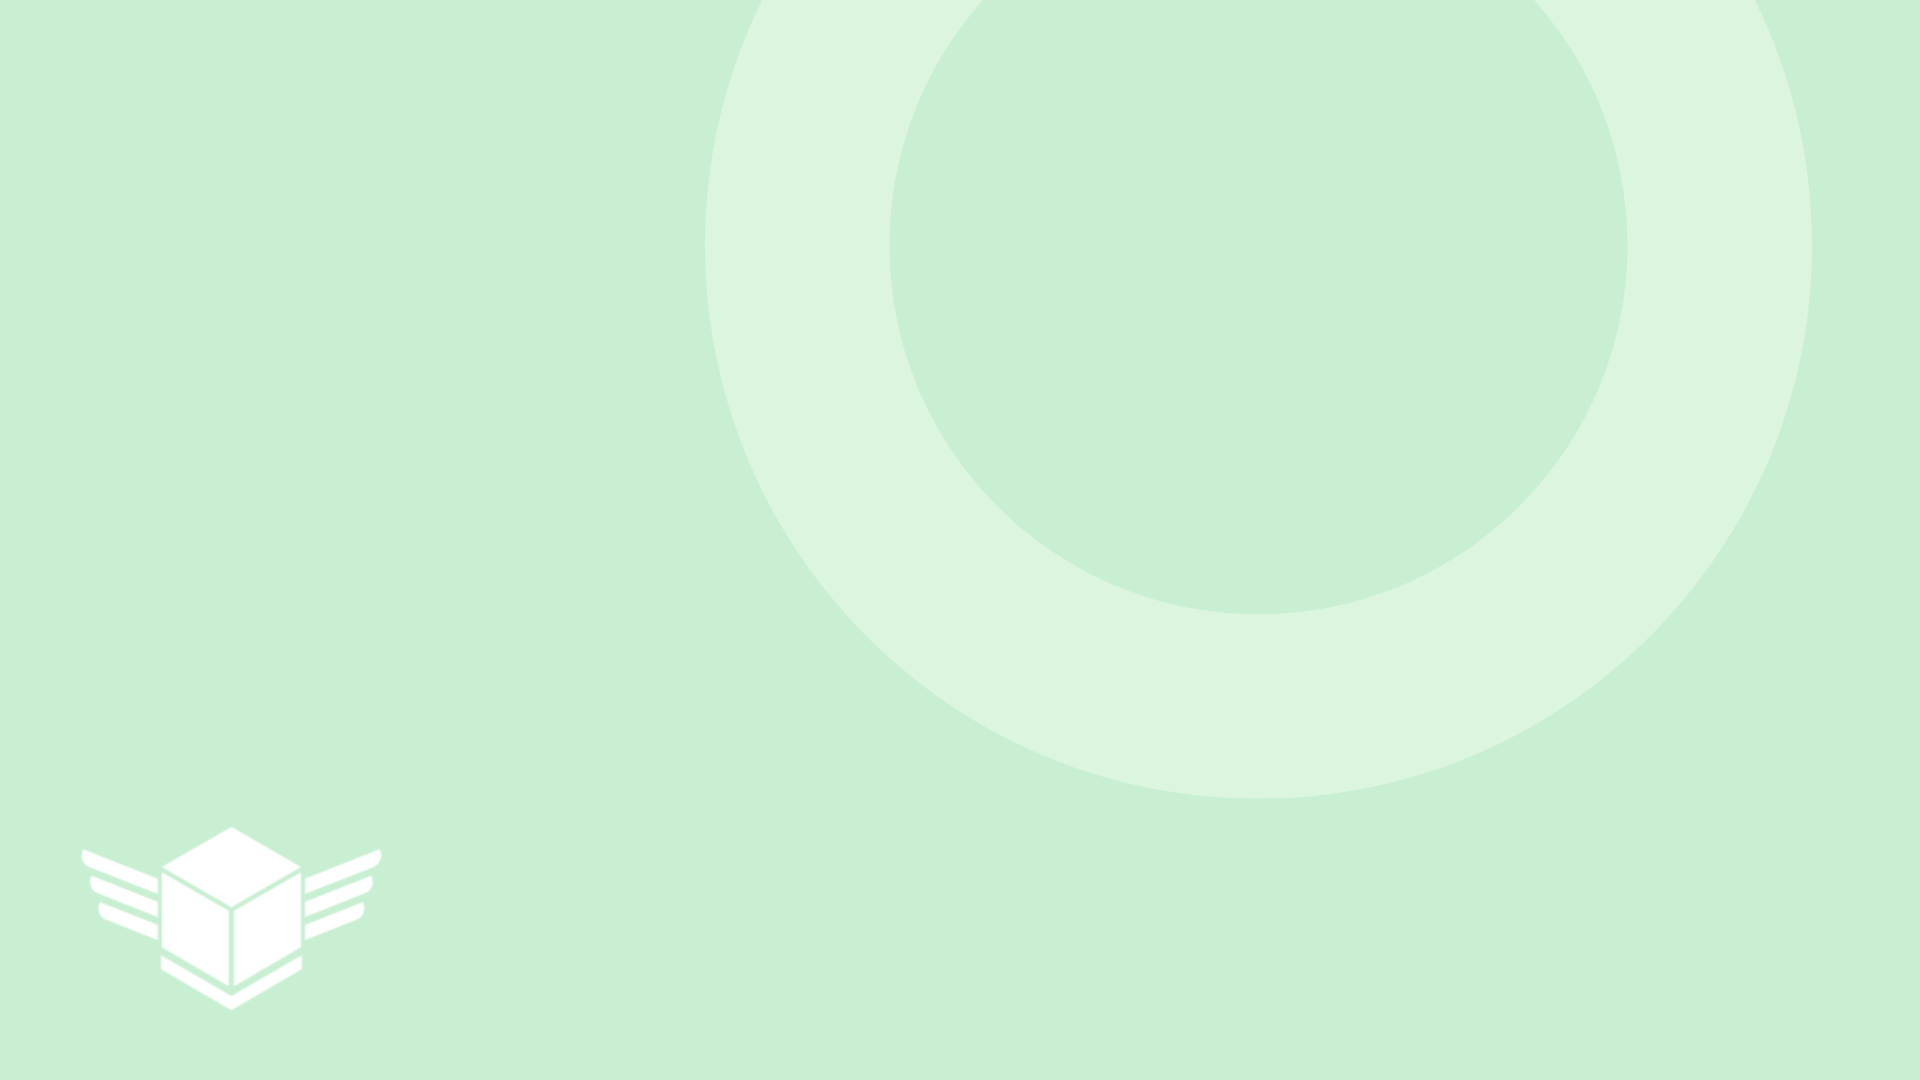
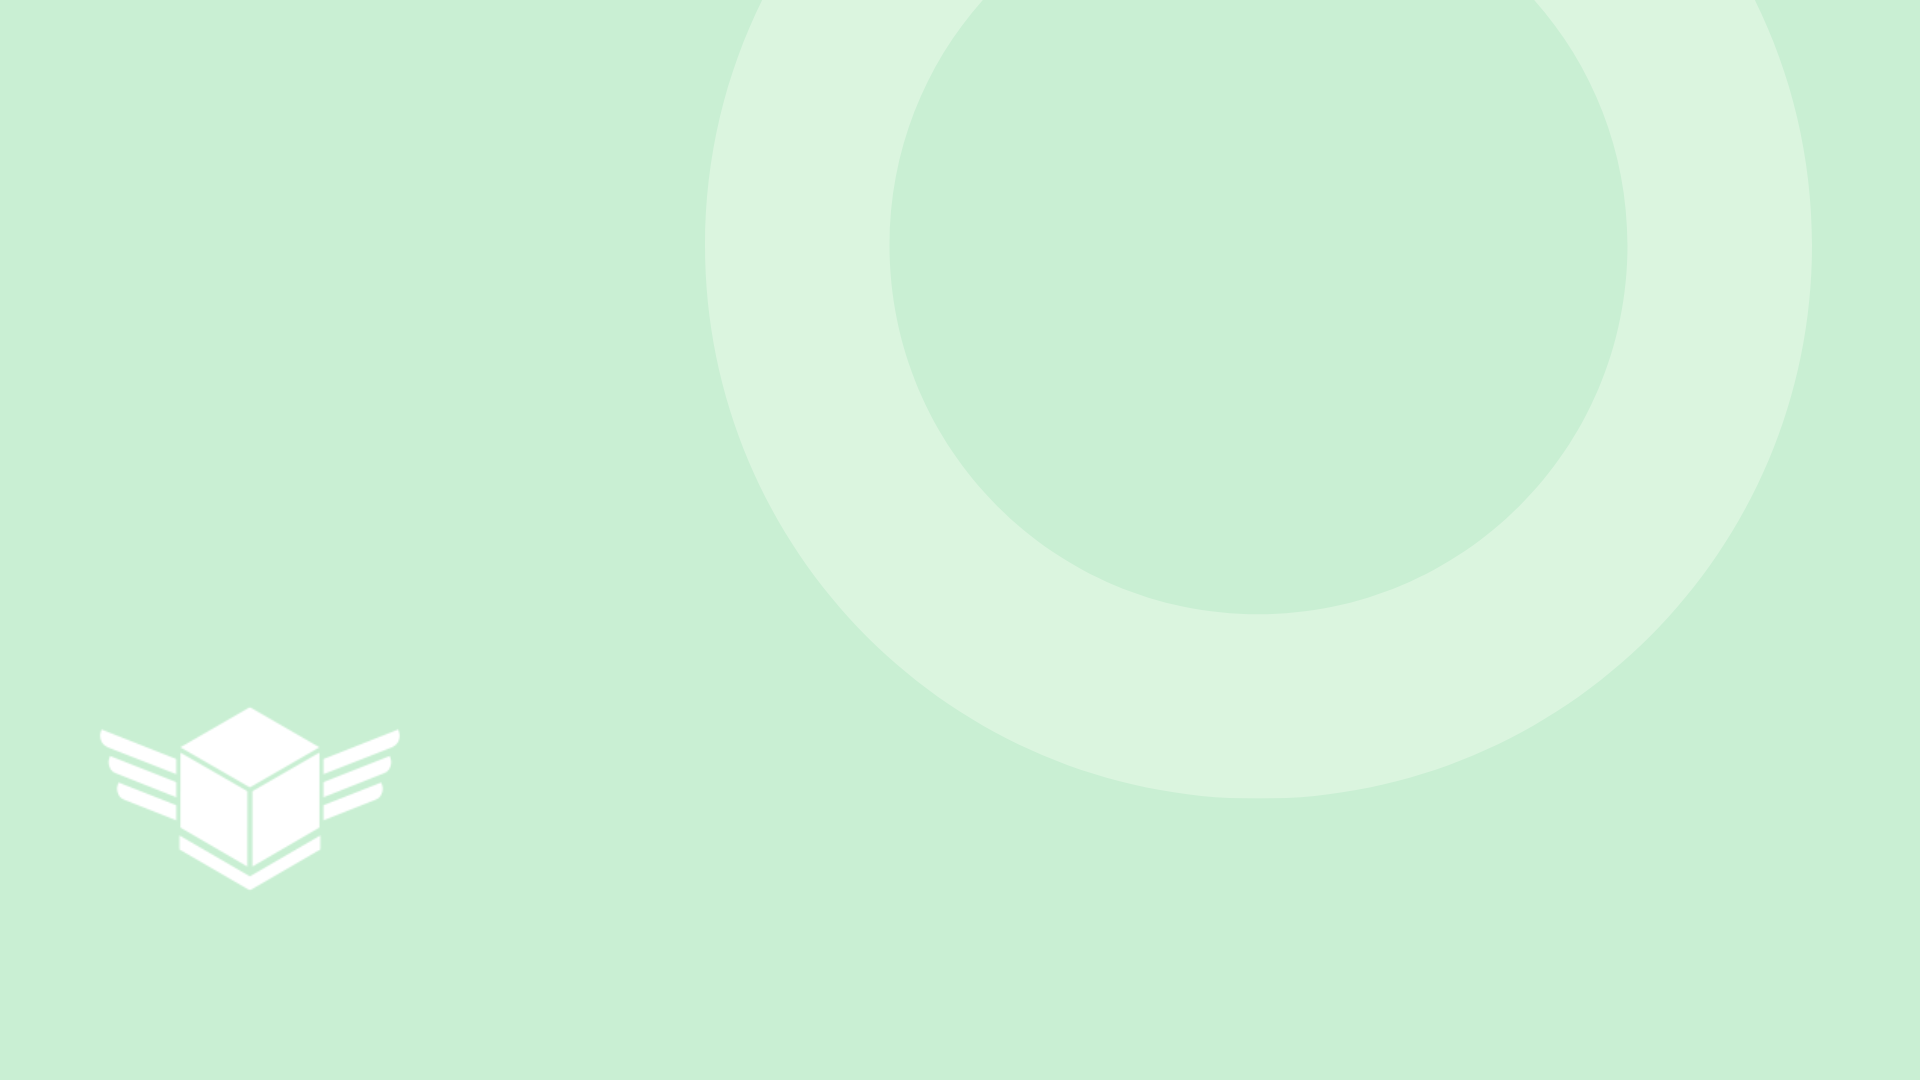
New one

Changed region(s): [[0.0312, 0.6417, 0.2188, 0.9472]]

diff --git a/src/app/layout.js b/src/app/layout.js
@@ -6,11 +6,19 @@ import Footer from "@/components/Footer";
 export default function RootLayout({ children }) {
   return (
     <html lang="en" className="h-full bg-gray-900">
-      <body style={{ backgroundColor: "#f4e8c4", minHeight: "120vh" }}>
-        <Navbar />
-        <div className="flex-1">{children}</div>
-        <Footer />
-      </body>
-    </html>
+      <body 
+      style={{
+        backgroundImage: "https://cdn.discordapp.com/attachments/1197323344937234464/1229457882588647536/bgphoto.png?ex=662fc0e1&is=661d4be1&hm=19525f4cebbe33f68bb5595e95905c365a9be74214146080168a8b1a616971c6&",
+        backgroundRepeat: "no-repeat",
+        backgroundSize: "cover",
+        backgroundColor: "#f4e8c4",
+        minHeight: "120vh",
+      }}
+    >
+      <Navbar />
+      <div className="flex-1">{children}</div>
+      <Footer />
+    </body>
+  </html>
   );
 }
